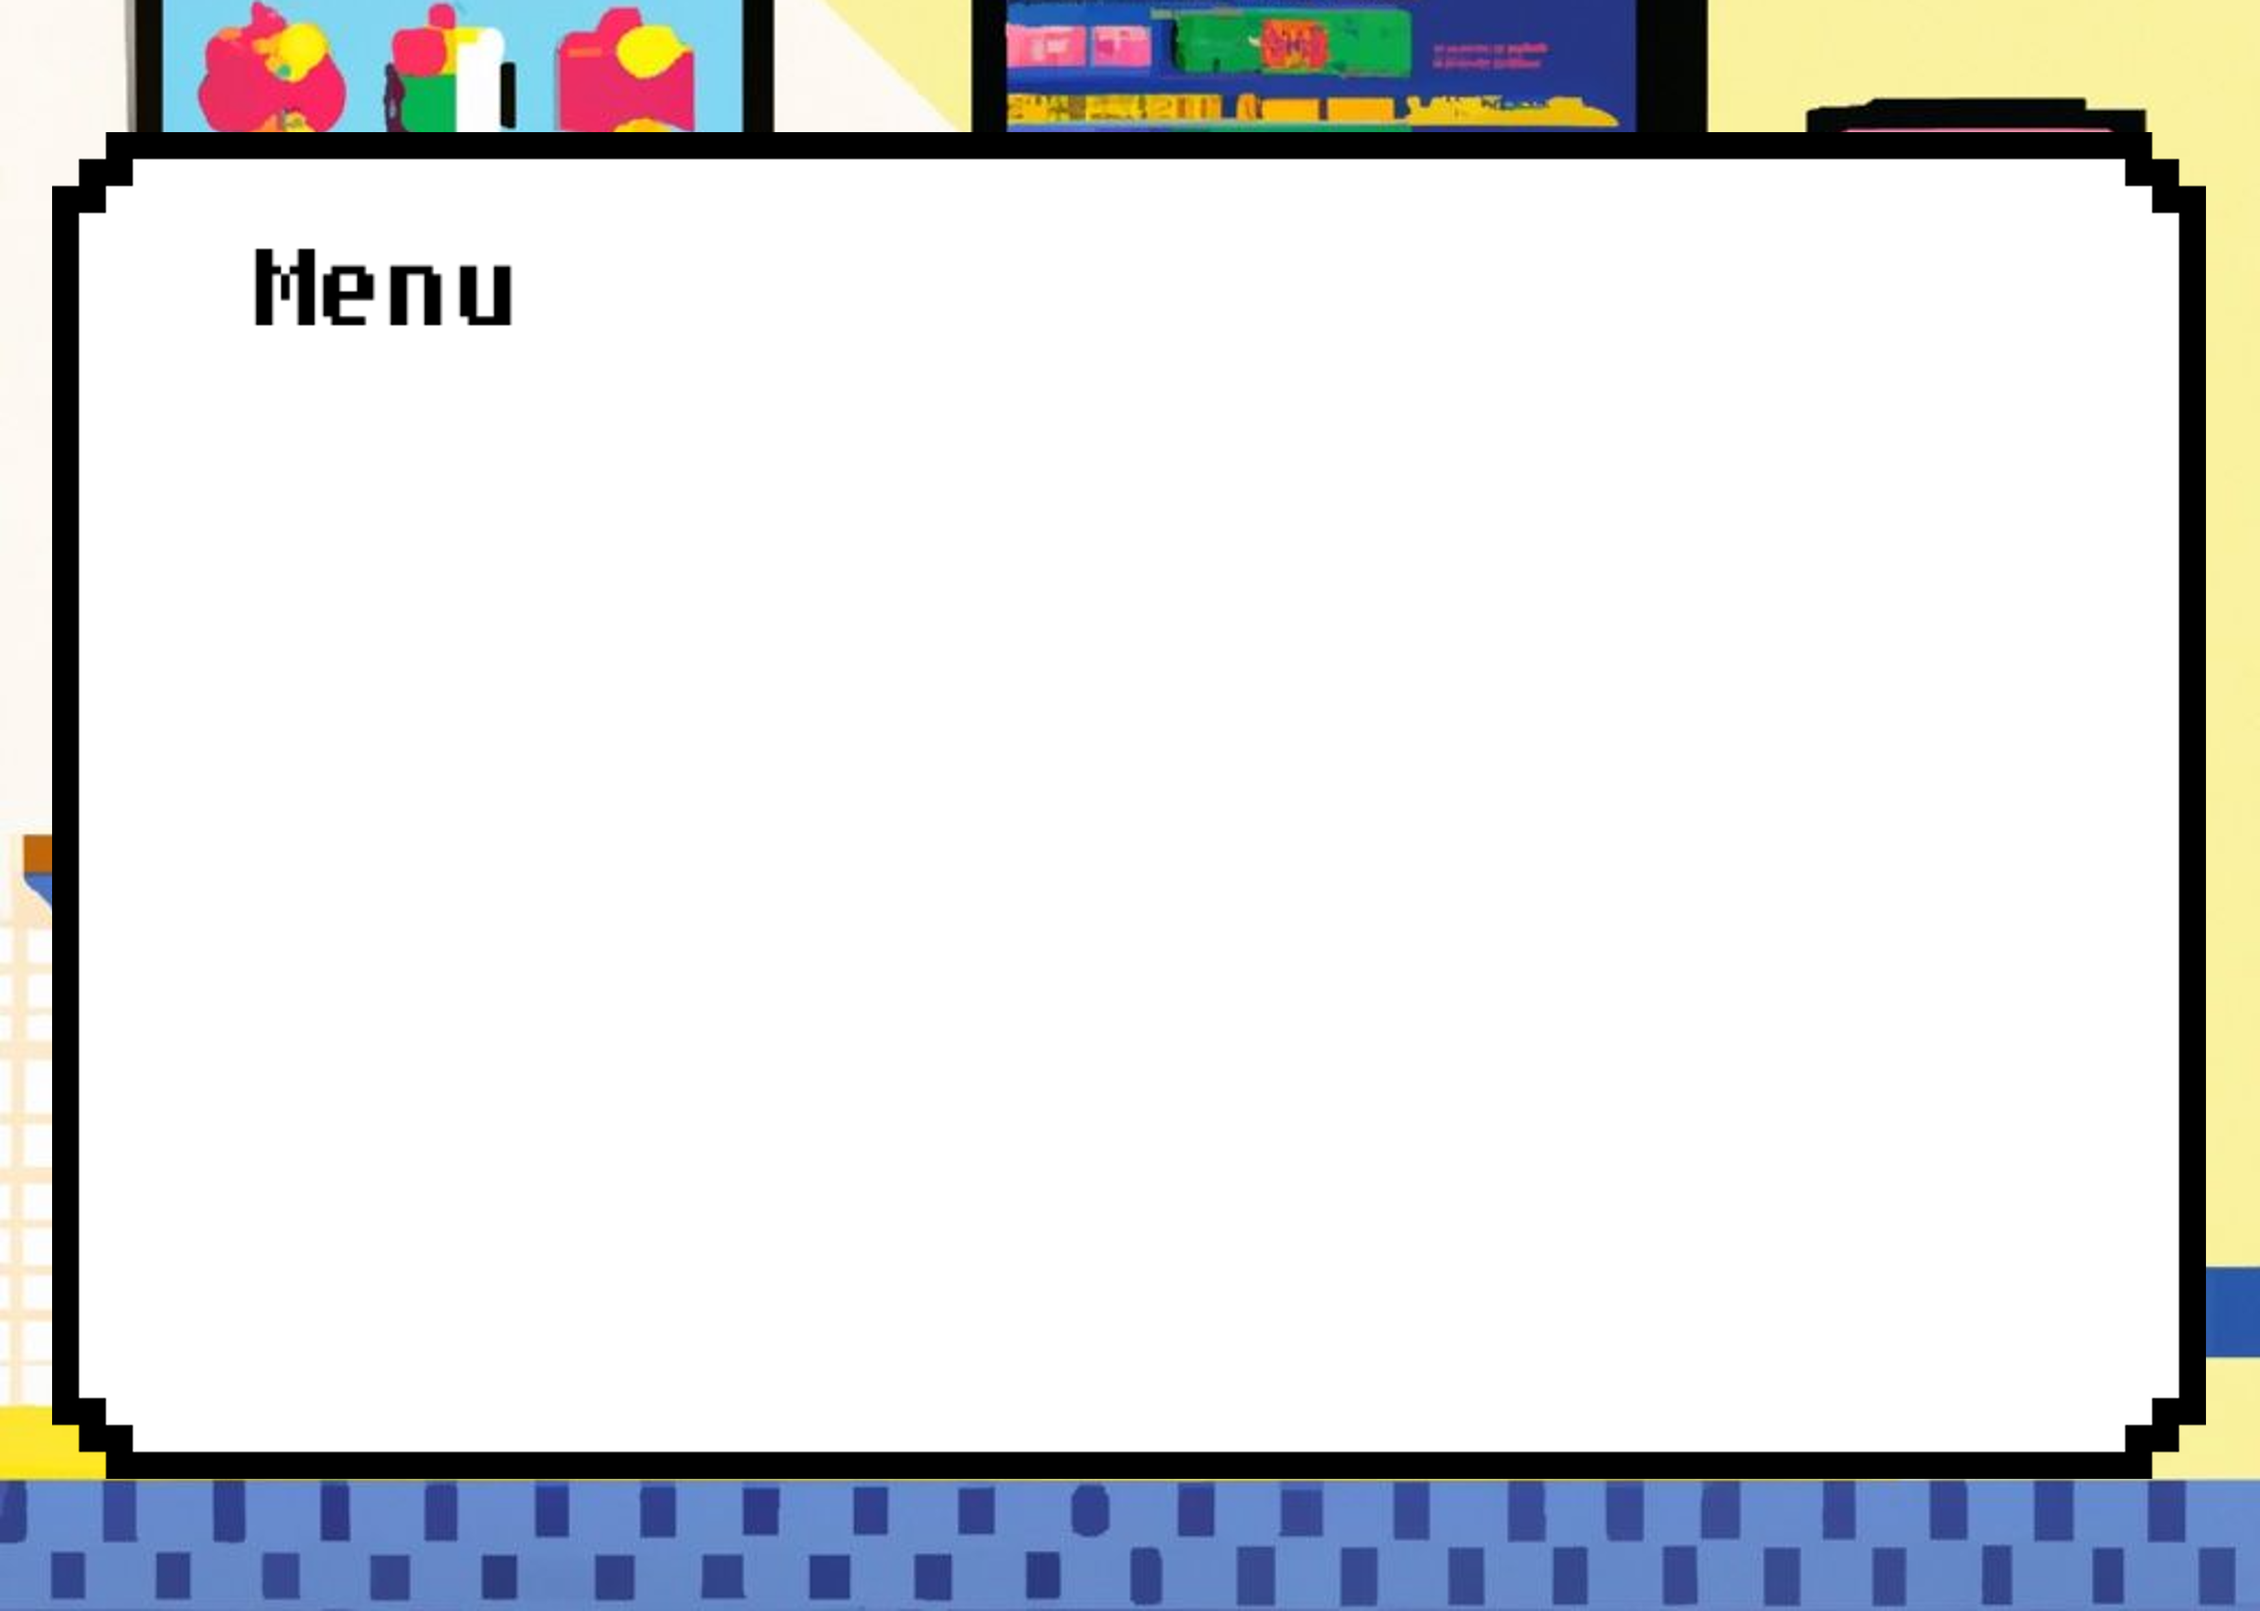
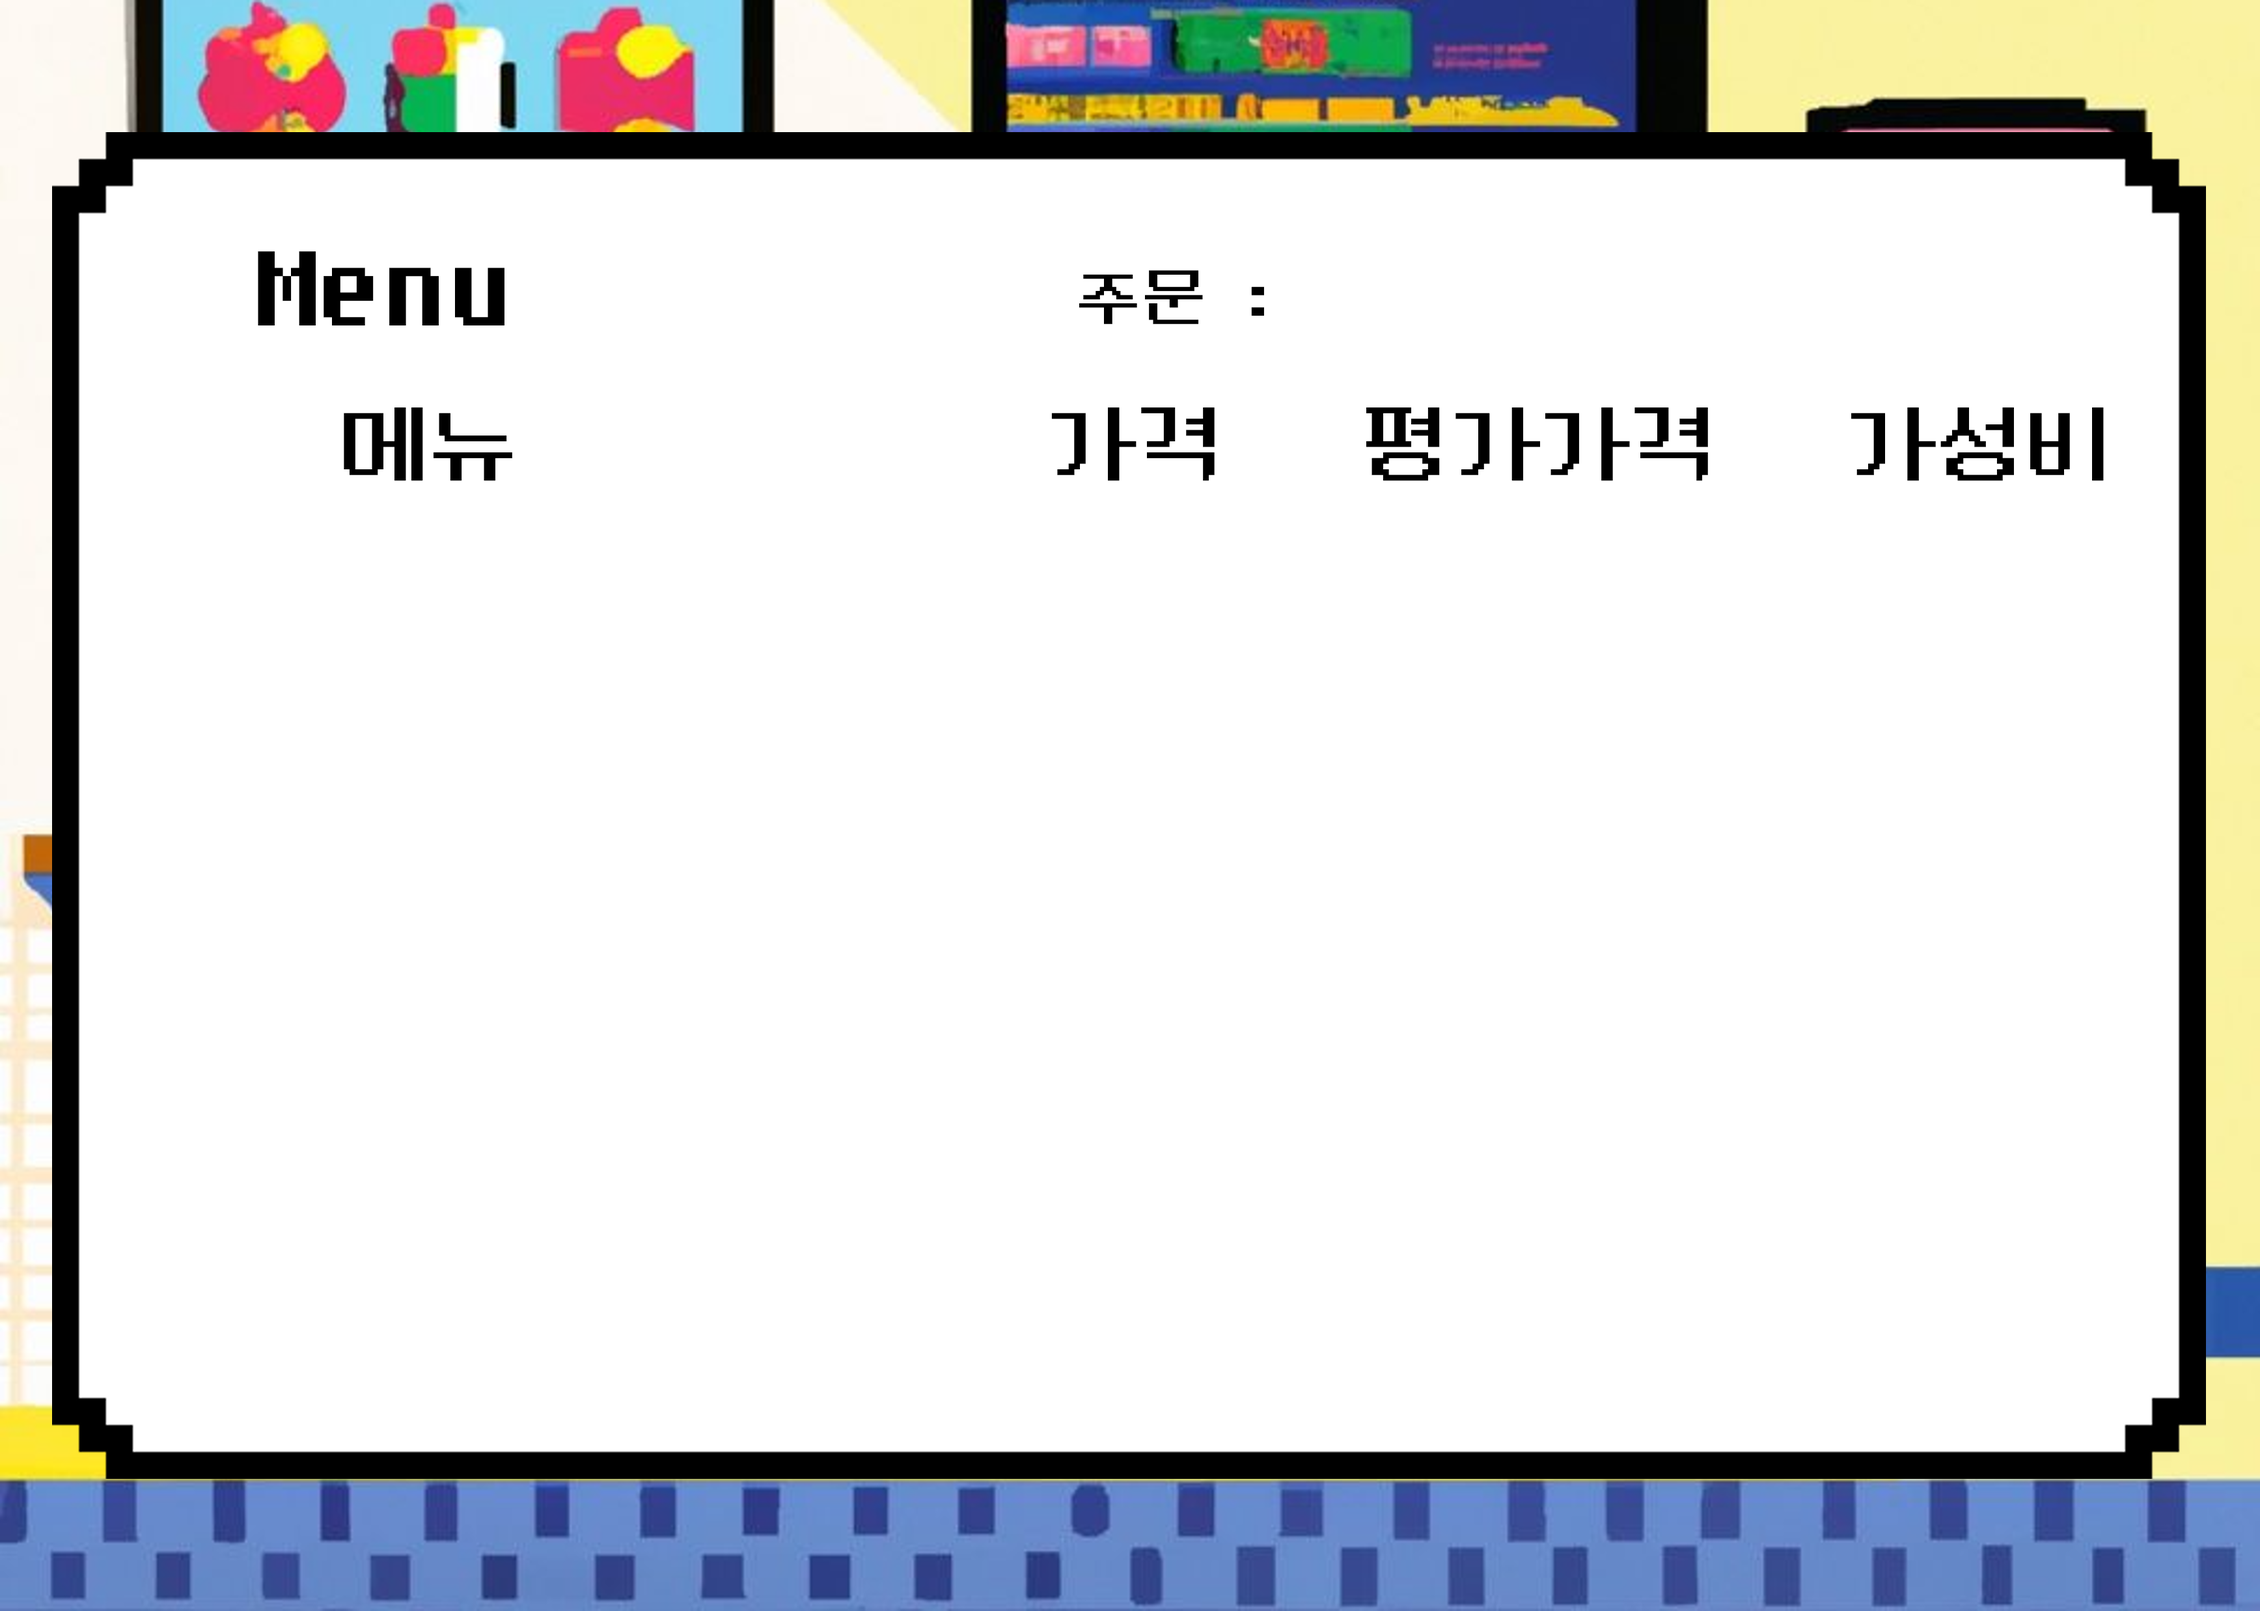
[0menu.js] 메뉴판 찐 완료
- 버튼 구현
- 버튼 클릭 시 메뉴판에 주문 : (메뉴명) 출력

diff --git a/items/0menu.js b/items/0menu.js
@@ -2,6 +2,7 @@ import Restaurant from "./0restaurant.js";
 import TownCanvas from "../ui/0townCanvas.js";
 
 export default class Menu {
+    #ctx;
     #name;
     #price;
     #ratedPrice;
@@ -9,7 +10,8 @@ export default class Menu {
     #menuNums;
     #btns;
 
-    constructor() {
+    constructor(ctx) {
+        this.#ctx = ctx;
         this.#name = TownCanvas.rstrnts[Restaurant.rstrntIndex].menus.name;
         this.#price = TownCanvas.rstrnts[Restaurant.rstrntIndex].menus.price;
         this.#ratedPrice = TownCanvas.rstrnts[Restaurant.rstrntIndex].menus.ratedPrice;
@@ -18,10 +20,17 @@ export default class Menu {
         this.#btns = [];
         for(let i = 0; i < this.#menuNums; i++){
             this.#btns[i] = document.getElementById(`menuBtn${i}`);
-            this.#btns[i].addEventListener('click', function(){
-                
+            this.#btns[i].addEventListener('click', () => {
+                this.pickMenu(i);
             })
         }
+    }
+
+    pickMenu(i){
+        this.#ctx.clearRect(645, 130, 350, 40);
+        this.#ctx.font = "35px dgm";
+        this.#ctx.letterSpacing = "1px";
+        this.#ctx.fillText(this.#name[i], 670, 161);
     }
 
     // 메뉴 출력 --------------------------------------------------------
@@ -31,8 +40,6 @@ export default class Menu {
         let rP = this.#ratedPrice;
         let value = this.#value;
         let menuNums = this.#name.length;
-        ctx.font = "45px dgm";
-        ctx.fillText("메뉴            가격   평가가격   가성비", 170, 240);
         // 가성비 -> ★로 변환
         // 급간 : 판매 가격의 10%
         for (let i = 0; i < menuNums; i++) {
@@ -52,13 +59,13 @@ export default class Menu {
             // 메뉴명
             ctx.fillText(name[i], 170, 65 * (i + 1) + 240);
             // 판매가격
-            ctx.fillText(p[i], 541, 65 * (i + 1) + 240);
+            ctx.fillText(p[i], 544, 65 * (i + 1) + 240);
             // 평가 가격
-            ctx.fillText(rP[i], 740, 65 * (i + 1) + 240);
+            ctx.fillText(rP[i], 747, 65 * (i + 1) + 240);
             ctx.font = "35px arial";
             ctx.letterSpacing = "-7px";
             // 가성비 (★)
-            ctx.fillText(value[i], 928, 65 * (i + 1) + 240);
+            ctx.fillText(value[i], 933, 65 * (i + 1) + 240);
         }
         // 버튼 활성화
         for(let i = 0; i < menuNums; i++){

diff --git a/ui/0restaurantCanvas.js b/ui/0restaurantCanvas.js
@@ -33,11 +33,11 @@ export default class RestaurantCanvas {
     // this.#menu = new Menu();
 
     // click ---------------------------------------------------------
-    this.#canvas.onclick = this.clickHandler.bind(this);
     this.#sceneIndex = 0;
+    this.#canvas.onclick = this.clickHandler.bind(this);
 
     // images --------------------------------------------------------
-    this.#sceneNums = 2; // ★★★★★★★★★★★ scene 수에 따라 값 설정
+    this.#sceneNums = 17; // ★★★★★★★★★★★ scene 수에 따라 값 설정
     this.#scenes = new Array(this.#sceneNums);
     // html에서 scenes 이미지 가져오기
     for (let i = 0; i < this.#scenes.length; i++) {
@@ -45,7 +45,7 @@ export default class RestaurantCanvas {
     }
   } // ■■■■■■■■■■■■■■■■■■■■■■■■■■■■■■■■■■■■■■■■■■■■■■■■■■■■■■■■■■■■■■■■■■
 
-  // Scene_1
+  // Scene_0
   welcome() {
     // 어서오세요~
     this.#ctx.drawImage(
@@ -57,11 +57,13 @@ export default class RestaurantCanvas {
     );
     let rstrntName = TownCanvas.rstrnts[Restaurant.rstrntIndex].name;
     this.#ctx.font = "37px dgm";
-    this.#ctx.fillText(`${rstrntName}입니다!`, 300, 681);
+    this.#ctx.fillText(`${rstrntName}입니다!`, 330, 687);
   }
 
   // 클릭할 때마다 다음 scene으로 넘어감
   clickHandler() {
+    if(this.#sceneIndex==1 || this.#sceneIndex==9)
+      return;
     this.#sceneIndex++;
     let index = this.#sceneIndex;
     let ctx = this.#ctx;
@@ -72,9 +74,9 @@ export default class RestaurantCanvas {
     let h = this.#h;
     this.#ctx.drawImage(scene, x, y, w, h);
 
-    // Scene_2 : 메뉴판
+    // Scene_1 : 메뉴판
     if (index == 1) {
-      this.#menu = new Menu();
+      this.#menu = new Menu(this.#ctx);
       this.#menu.printInfo(this.#ctx);
     }
   } // click handler

diff --git a/app.html b/app.html
@@ -6,7 +6,7 @@
     <meta name="viewport" content="width=device-width, initial-scale=1.0" />
     <title>town</title>
     <script src="app.js" type="module" defer="defer"></script>
-    <link rel="stylesheet" href="css/app.css" />
+    <link rel="stylesheet" href="css/app.css">
   </head>
 
   <body>
@@ -24,7 +24,7 @@
         <img src="/images/balloon.png" id="rstrntInfo0" class="d-none" />
         <!-- 예진 캐릭터 -->
         <img src="/images/userWalk.png" id="user" class="d-none" />
-        
+
     <!-- ■■■■■■■■■■■■■■■■■■ 식당 입장 ■■■■■■■■■■■■■■■■■■ -->
     <!-- Scene_0 : 어서오세요 -->
     <img src="/images/inRstrnt_0.png" id="inRstrnt0" class="d-none" />
@@ -47,7 +47,8 @@
     <img src="/images/inrstrnt_7.png" id="inRstrnt7" class="d-none" />
     <img src="/images/inrstrnt_8.png" id="inRstrnt8" class="d-none" />
     <!-- Scene_9 : 평가 -->
-    <img src="images/inRstrnt_9.png" id="inRstrnt9" class="d-none">
+    <img src="/images/inRstrnt_9.png" id="inRstrnt9" class="d-none">
+    <!-- Scene_10~17 -->
     <img src="/images/inrstrnt_10.png" id="inRstrnt10" class="d-none" />
     <img src="/images/inrstrnt_11.png" id="inRstrnt11" class="d-none" />
     <img src="/images/inrstrnt_12.png" id="inRstrnt12" class="d-none" />

diff --git a/items/0restaurant.js b/items/0restaurant.js
@@ -1,7 +1,4 @@
 export default class Restaurant {
-    #posX;
-    #posY;
-    #rstIndex;
     #name;
     #img;
     #x;
